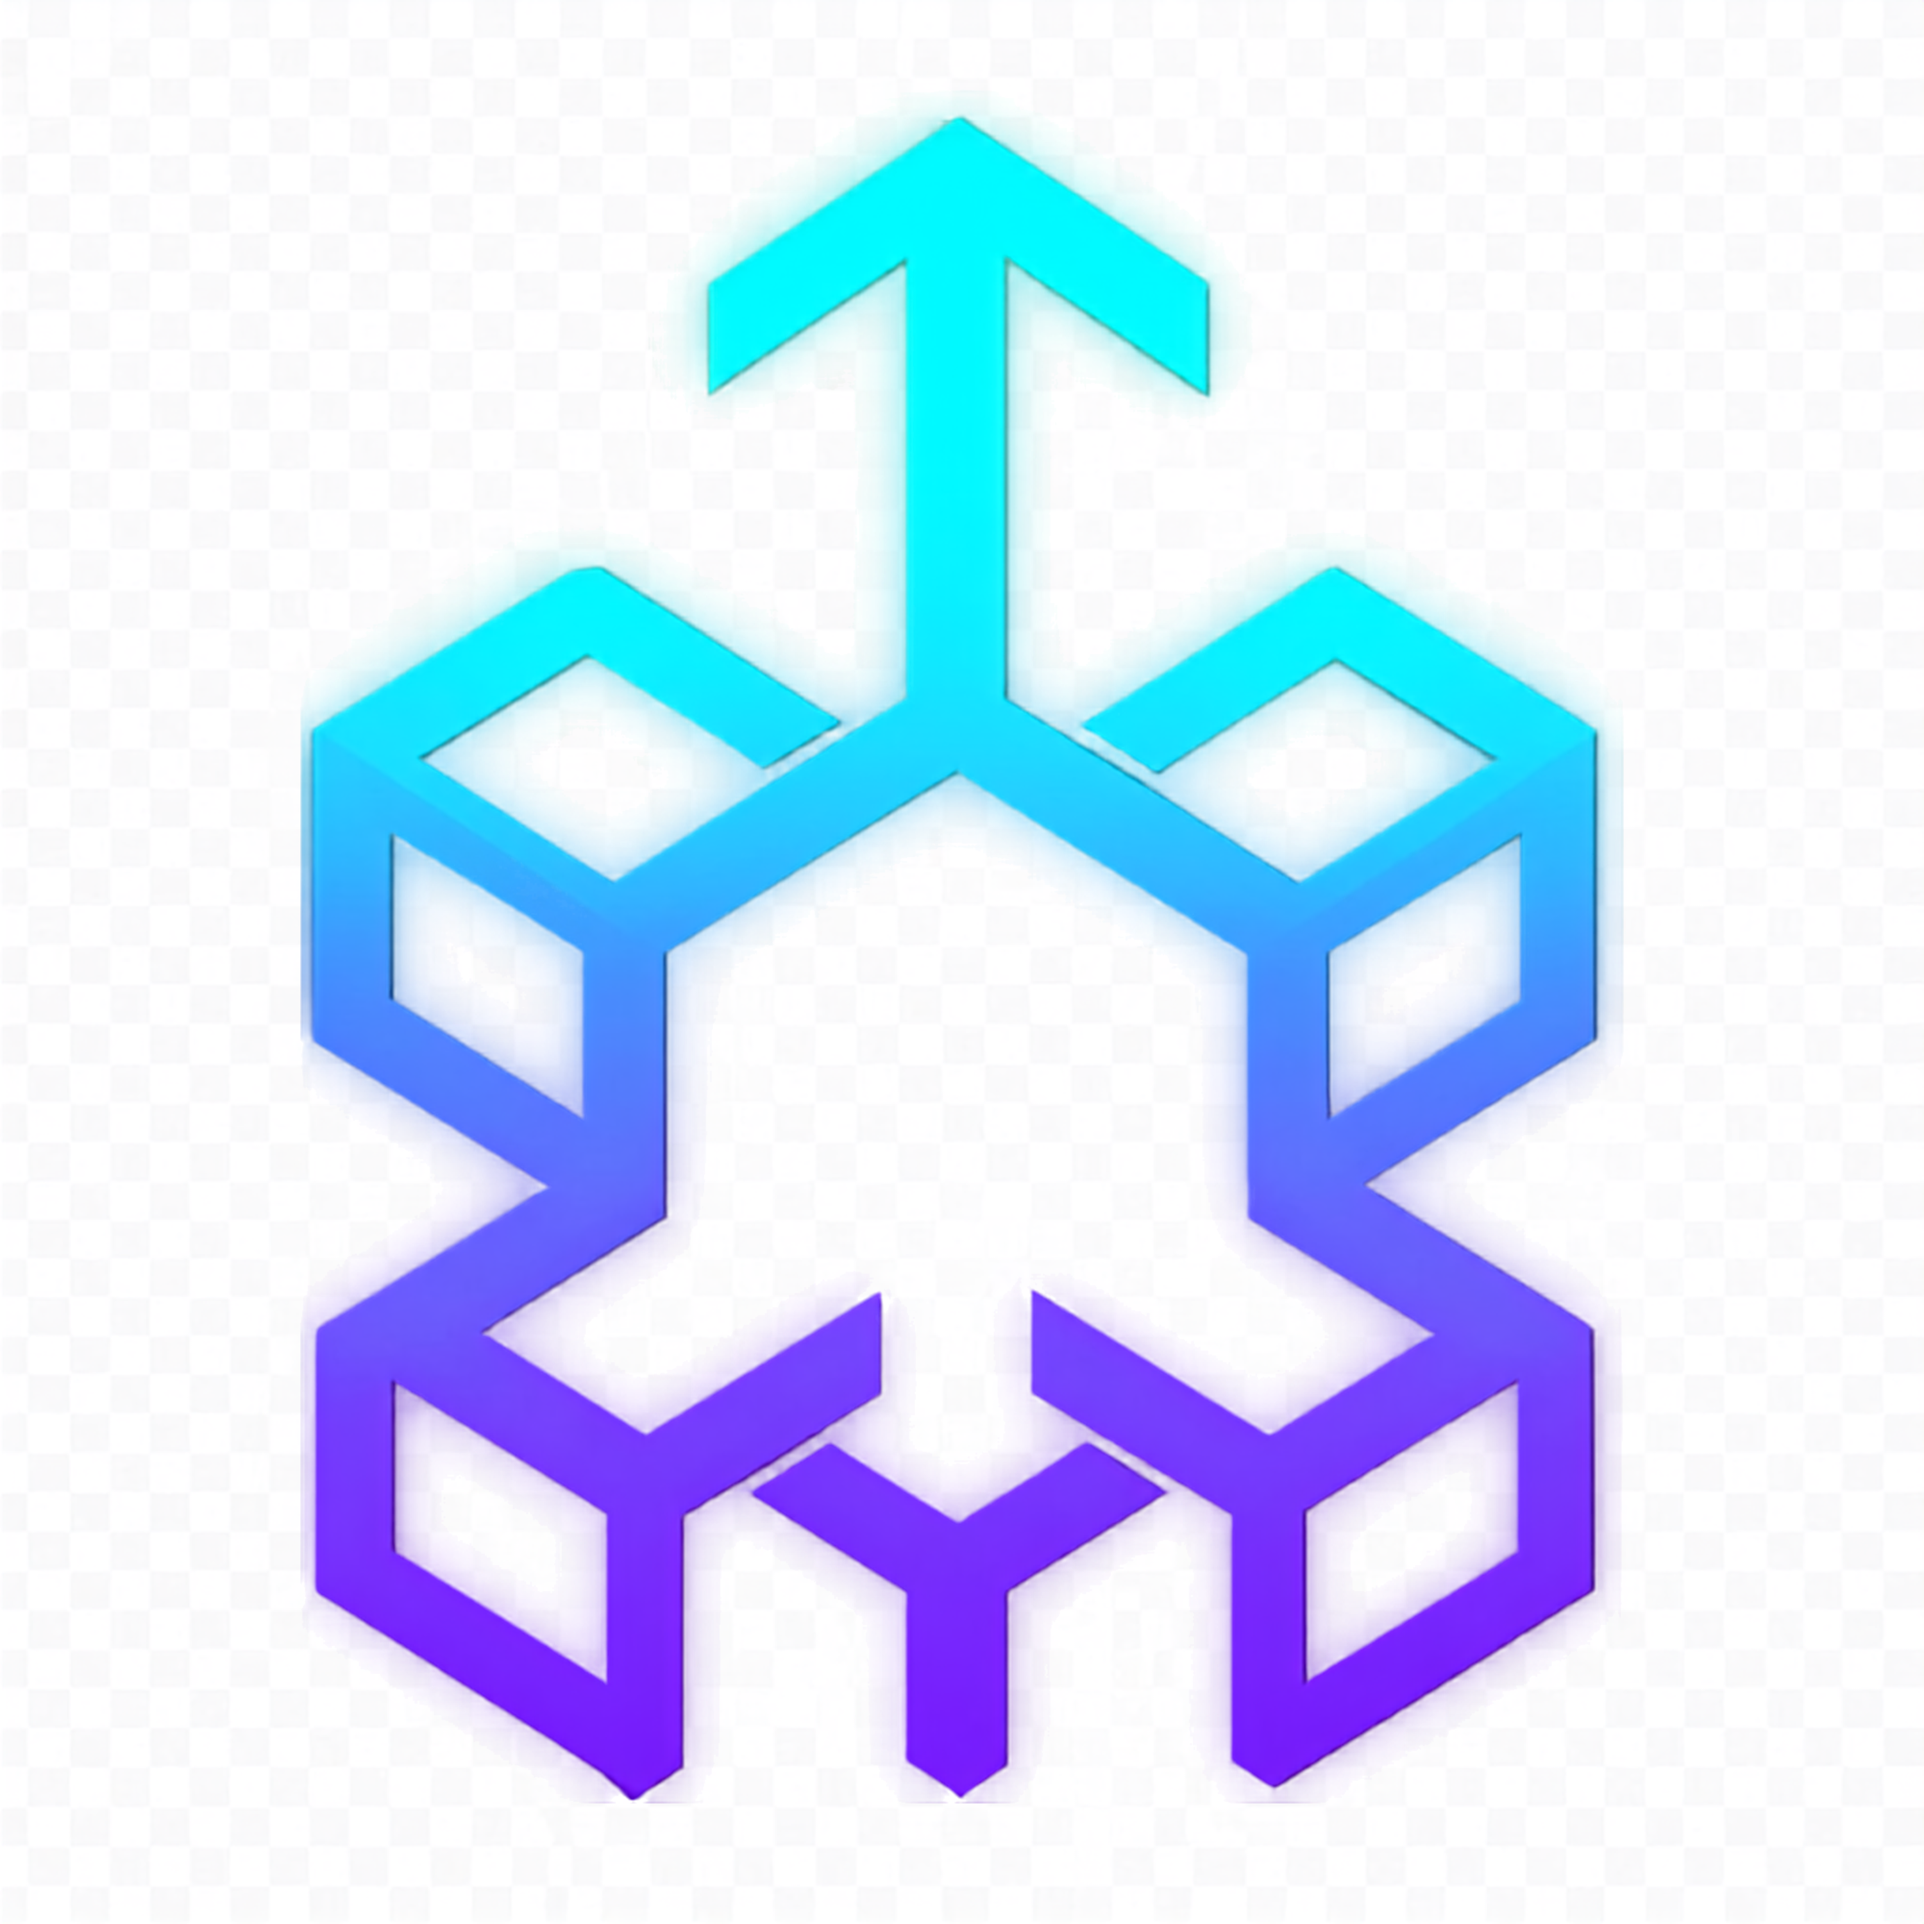
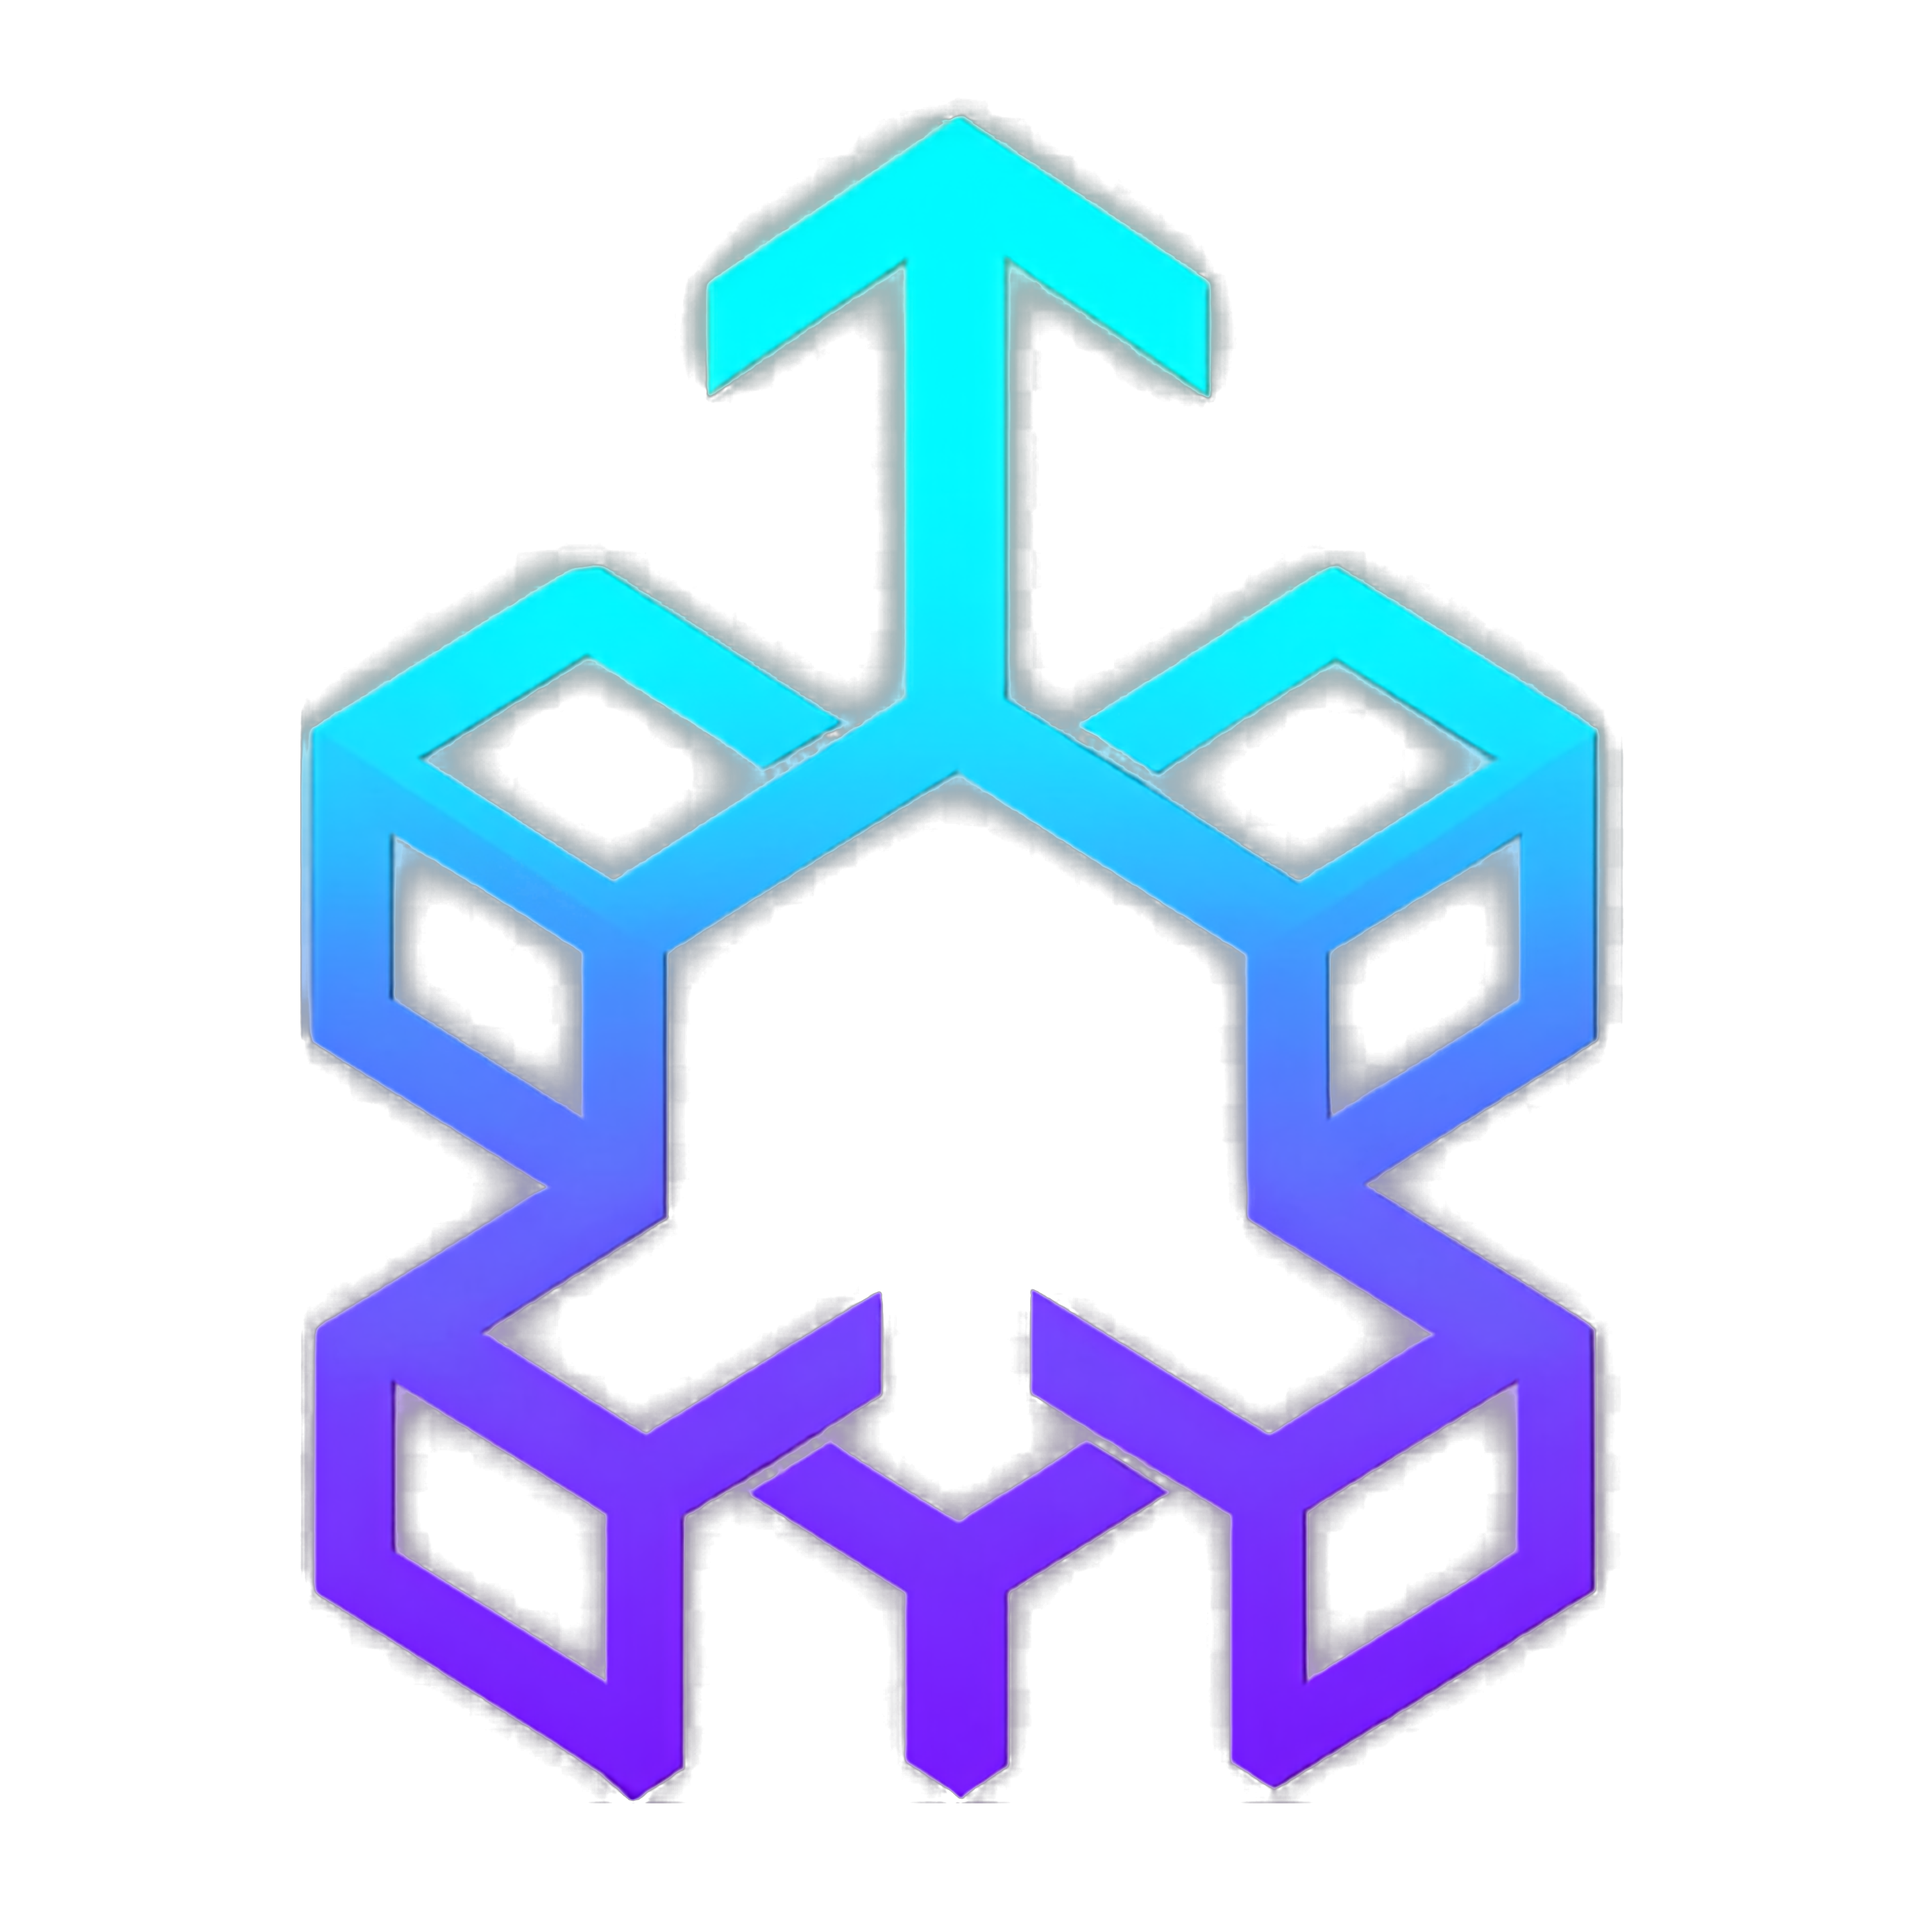
fix(branding): remove fake checkerboard background and refine brand presentation
- Process raw asset to remove rasterized fake checkerboard and restore true alpha transparency
- Defringe anti-aliased edges for crisp rendering on dark backgrounds
- Replace floating hero tile with sleek modern SaaS badge
- Refine navbar header logo with soft ambient glow effect

diff --git a/src/app/page.tsx b/src/app/page.tsx
@@ -25,18 +25,14 @@ export default function Home() {
         <div className="max-w-screen-xl mx-auto px-6">
           <div className="flex items-center justify-between h-16">
             <div className="flex items-center gap-3">
-              <div 
-                className="w-9 h-9 rounded-xl flex items-center justify-center relative overflow-hidden p-1 bg-white/[0.04] border border-white/[0.08]"
-                style={{ 
-                  boxShadow: "0 0 20px rgb(124 58 237 / 0.3)"
-                }}
-              >
+              <div className="relative flex items-center justify-center">
+                <div className="absolute inset-0 rounded-full bg-cyan-500/20 blur-md" />
                 <Image 
                   src={logoImg} 
                   alt="VolitionCI Logo" 
-                  width={28} 
-                  height={28} 
-                  className="object-contain"
+                  width={30} 
+                  height={30} 
+                  className="relative object-contain drop-shadow-[0_0_8px_rgba(56,189,248,0.4)]"
                   priority
                 />
               </div>
@@ -67,17 +63,18 @@ export default function Home() {
       </header>
 
       <div className="flex-shrink-0 relative z-10 pt-10 pb-8 text-center px-6">
-        <div className="inline-flex items-center justify-center mb-4">
-          <div className="relative p-2.5 rounded-2xl bg-white/[0.03] border border-white/[0.08] shadow-[0_0_35px_rgba(124,58,237,0.25)]">
-            <Image
-              src={logoImg}
-              alt="VolitionCI"
-              width={56}
-              height={56}
-              className="w-14 h-14 object-contain"
-              priority
-            />
-          </div>
+        <div className="inline-flex items-center gap-2 px-3.5 py-1.5 rounded-full bg-white/[0.03] border border-white/[0.08] shadow-[0_0_30px_rgba(124,58,237,0.15)] mb-6 hover:border-white/[0.14] transition-colors">
+          <Image
+            src={logoImg}
+            alt="VolitionCI"
+            width={16}
+            height={16}
+            className="object-contain drop-shadow-[0_0_6px_rgba(56,189,248,0.5)]"
+            priority
+          />
+          <span className="text-xs font-medium text-white/70">
+            Autonomous Delivery &amp; Cloud Infrastructure
+          </span>
         </div>
         <h1 className="text-4xl sm:text-5xl lg:text-6xl font-extrabold tracking-tight leading-[1.1] text-white">
           Agentic DevSecOps <br/>
@@ -98,8 +95,8 @@ export default function Home() {
         <div className="h-px bg-gradient-to-r from-transparent via-white/[0.05] to-transparent" />
         <div className="max-w-screen-xl mx-auto px-6 py-4 flex items-center justify-between">
           <div className="flex items-center gap-2">
-            <Image src={logoImg} alt="VolitionCI" width={14} height={14} className="object-contain opacity-40" />
-            <span className="text-[11px] text-white/20">
+            <Image src={logoImg} alt="VolitionCI" width={14} height={14} className="object-contain opacity-50" />
+            <span className="text-[11px] text-white/25">
               VolitionCI &copy; {new Date().getFullYear()}
             </span>
           </div>

diff --git a/src/app/layout.tsx b/src/app/layout.tsx
@@ -18,11 +18,11 @@ export const metadata: Metadata = {
     "Autonomous repository analysis, interactive architectural interrogation, and self-healing CI/CD, Terraform, and Kubernetes pipeline generator.",
   icons: {
     icon: [
-      { url: "/icon.png?v=3", type: "image/png" },
-      { url: "/logo.png?v=3", type: "image/png" },
+      { url: "/icon.png?v=4", type: "image/png" },
+      { url: "/logo.png?v=4", type: "image/png" },
     ],
-    shortcut: "/icon.png?v=3",
-    apple: "/apple-icon.png?v=3",
+    shortcut: "/icon.png?v=4",
+    apple: "/apple-icon.png?v=4",
   },
 };
 
@@ -32,8 +32,8 @@ export default function RootLayout({
   return (
     <html lang="en">
       <head>
-        <link rel="icon" href="/icon.png?v=3" type="image/png" />
-        <link rel="apple-touch-icon" href="/apple-icon.png?v=3" />
+        <link rel="icon" href="/icon.png?v=4" type="image/png" />
+        <link rel="apple-touch-icon" href="/apple-icon.png?v=4" />
       </head>
       <body className={`${geistSans.variable} ${geistMono.variable} antialiased`}>
         {children}
